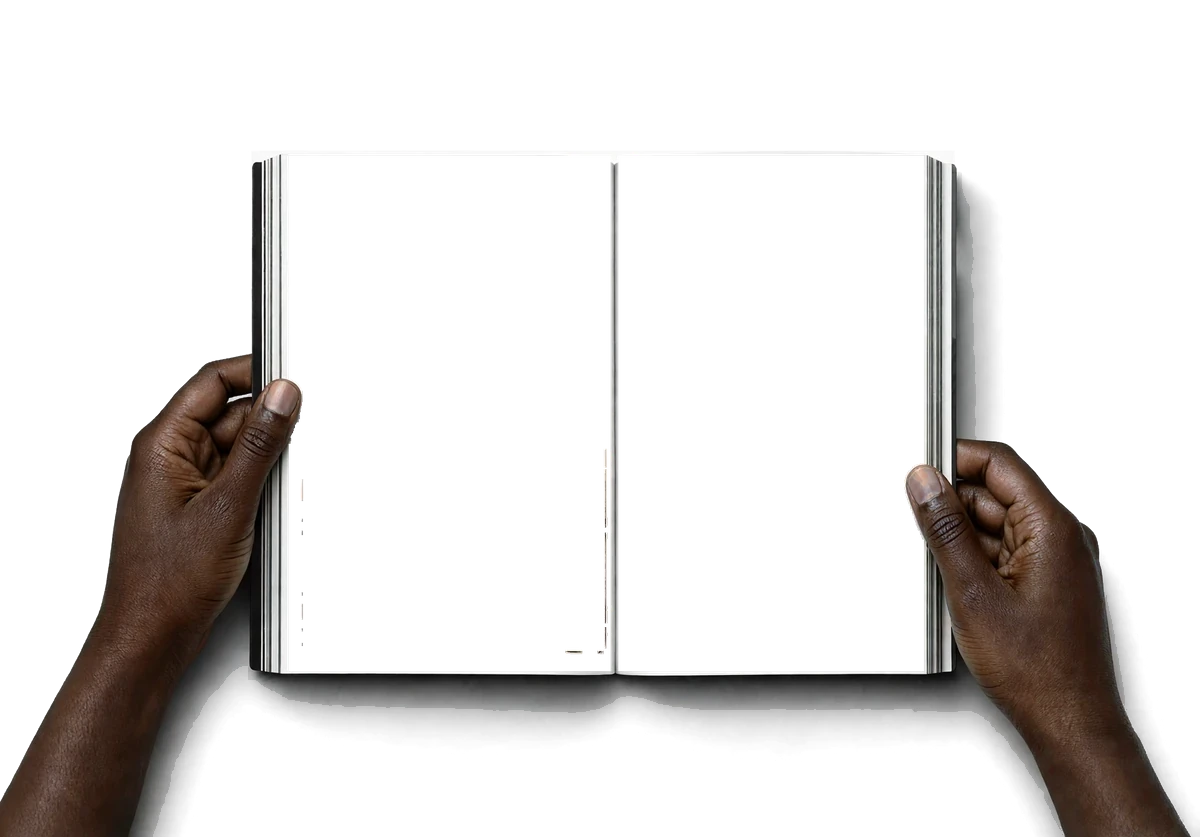
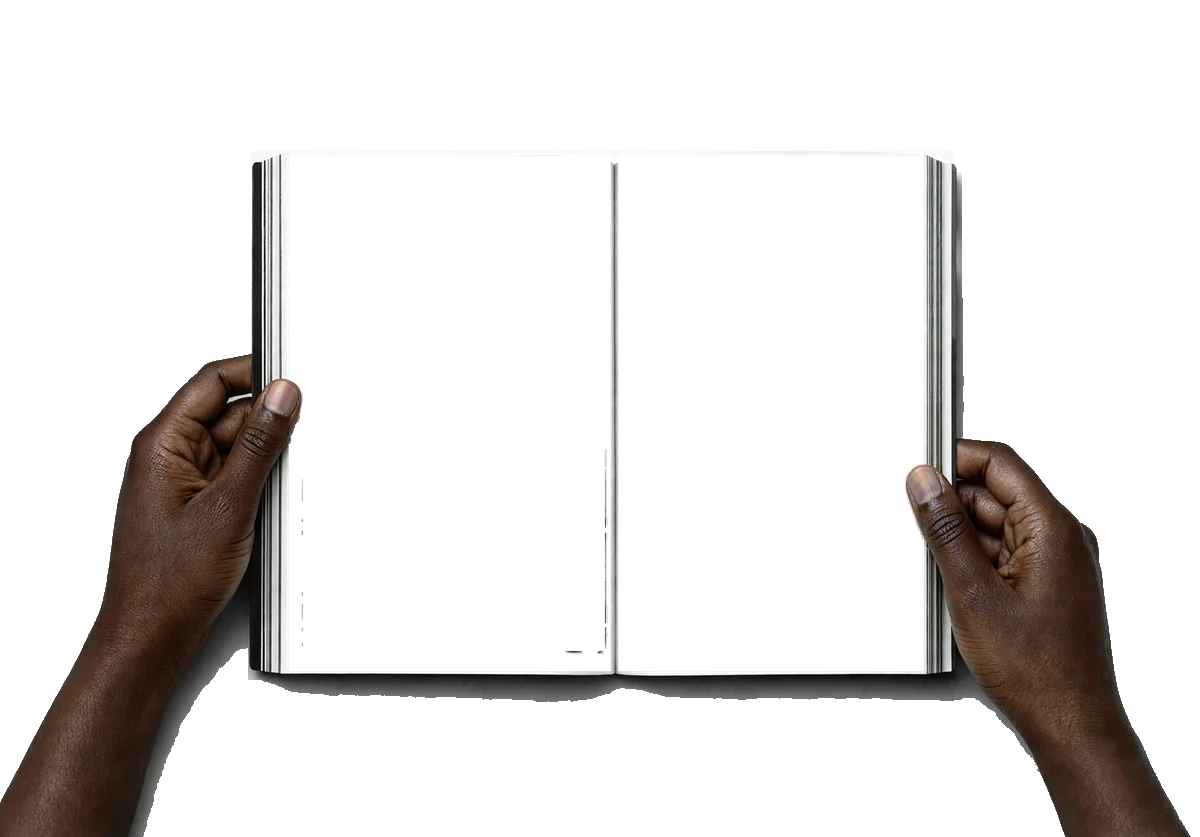
About: remove the leftover light shadow around the hands entirely for dark mode

diff --git a/scripts/fix-about-dark-edge.py b/scripts/fix-about-dark-edge.py
@@ -2,6 +2,7 @@
 transparent black shadow, so the About magazine sits cleanly on any page
 background (including browser dark modes). Pixels inside the book are untouched."""
 import numpy as np, sys
+from scipy import ndimage
 from PIL import Image
 BOOK = (0.206, 0.176, 0.801, 0.812)  # x0,y0,x1,y1 as fractions of the image
 for path in sys.argv[1:]:
@@ -13,10 +14,14 @@ for path in sys.argv[1:]:
     yy, xx = np.mgrid[0:h, 0:w]
     x0, y0, x1, y1 = BOOK
     outside = ~((xx >= x0 * w) & (xx <= x1 * w) & (yy >= y0 * h) & (yy <= y1 * h))
-    bgish = outside & (L > 165) & (sat < 22)
+    bgish = outside & (L > 120) & (sat < 26)
+    # keep only background-like regions connected to the image border (no specks on knuckles)
+    lab, _ = ndimage.label(bgish | (a < 0.05))
+    border = np.unique(np.concatenate([lab[0], lab[-1], lab[:, 0], lab[:, -1]]))
+    bgish = bgish & np.isin(lab, border[border > 0])
     shadow = np.clip(1 - L / 238, 0, 1) * a
     out = im.copy()
     out[..., :3][bgish] = 0
-    out[..., 3][bgish] = shadow[bgish] * 255 * 0.85
+    out[..., 3][bgish] = 0
     Image.fromarray(out.clip(0, 255).astype(np.uint8)).save(path, 'WEBP', quality=90, method=6)
     print('fixed', path)
